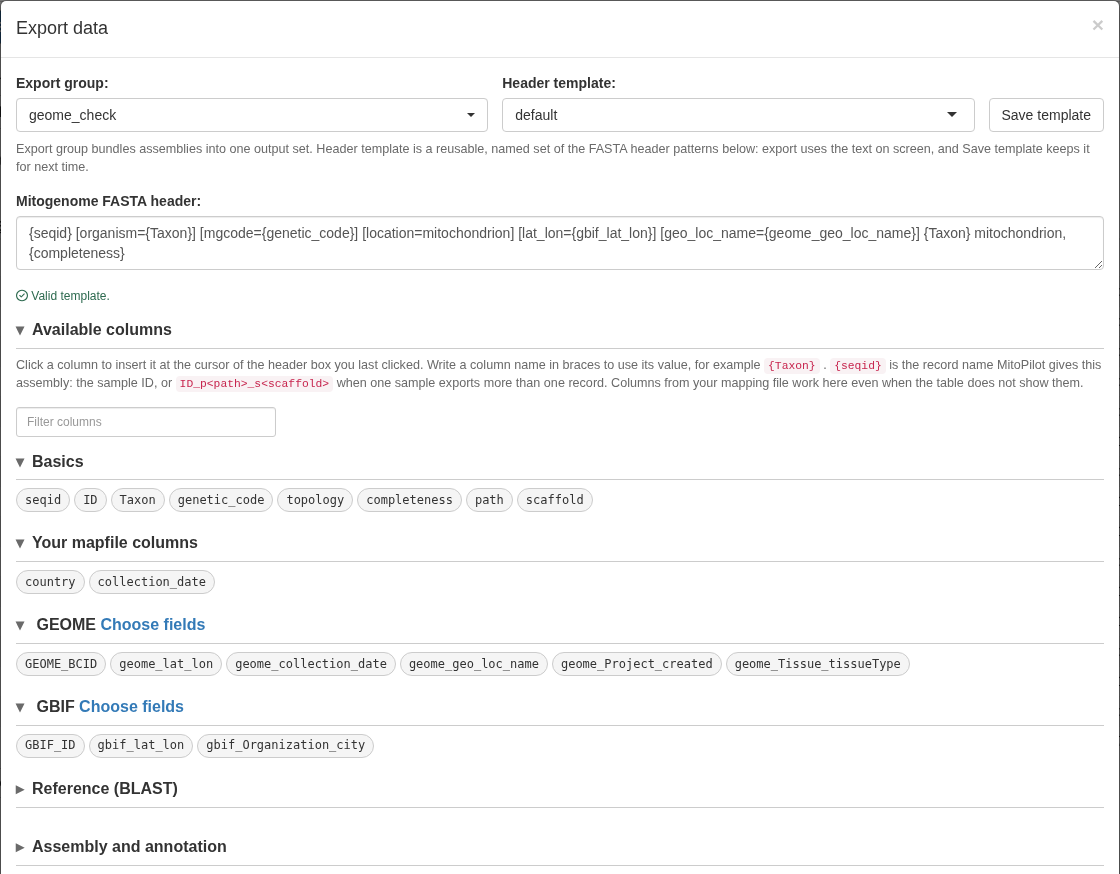
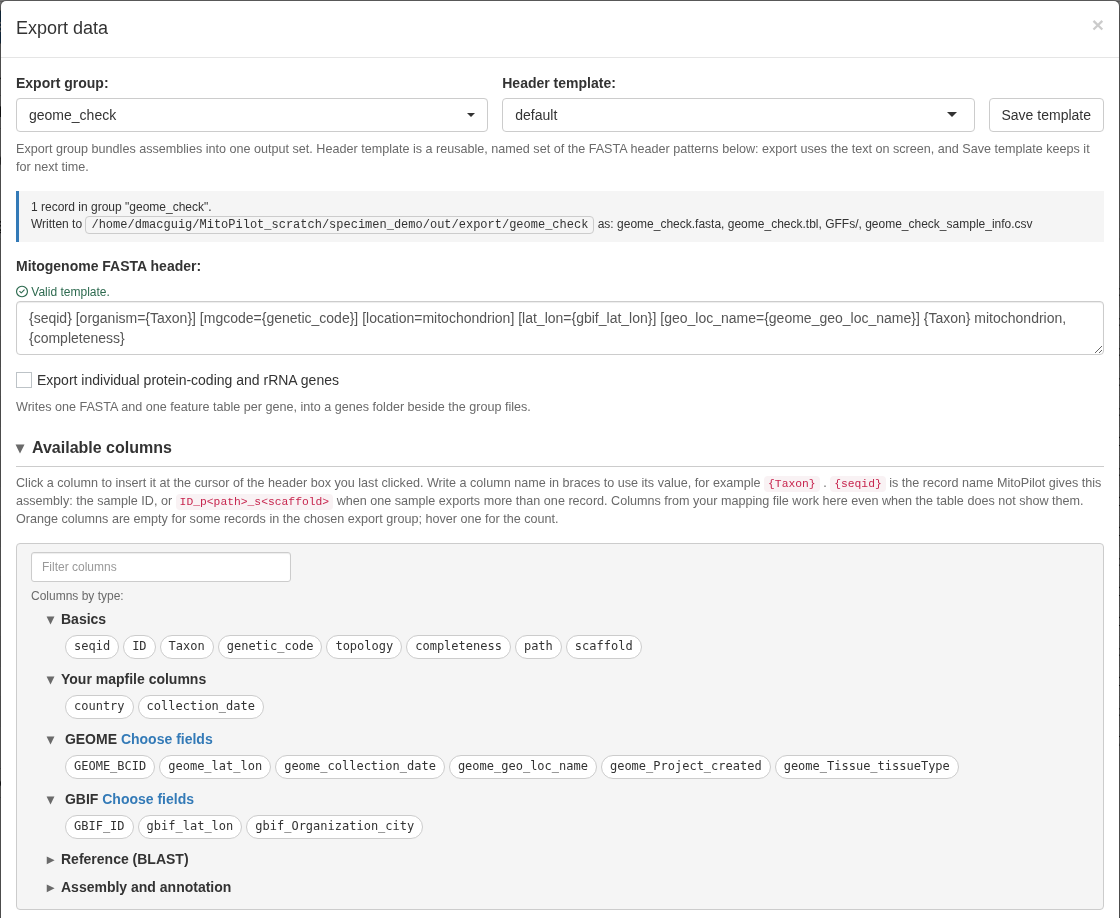
Export Data: grouped column box, missing-data flags, return from Choose fields
Available columns collapsed and boxed by type; orange chips for columns empty in the chosen group; summary and validity checks moved up; Choose fields reopens Export Data unchanged. Rename toolbar button to Set Export Metadata; NEWS draft; refreshed Export Data screenshots.

Changed region(s): [[0.0, 0.0, 0.9688, 0.9886]]

diff --git a/inst/app/www/custom.css b/inst/app/www/custom.css
@@ -967,14 +967,26 @@ a.mp-link:focus-visible {
 .mp-meta-citation { margin: 4px 0 6px; font-size: var(--mp-fs-meta); }
 
 /* Export Data token chips */
-.mp-token-list { margin: 6px 0; }
+/* The column types sit in one bordered box inside Available columns, each type
+   indented with its chips indented again beneath it. */
+.mp-token-list {
+  margin: 8px 0; padding: 8px 14px 6px; border: 1px solid var(--mp-border);
+  border-radius: var(--mp-radius, 4px); background: var(--mp-surface-alt);
+}
 .mp-token-filter { max-width: 260px; margin-bottom: 6px; }
-.mp-token-group > summary { cursor: pointer; font-weight: 600; }
+.mp-token-lead { margin: 4px 0 2px; font-size: var(--mp-fs-meta); color: var(--mp-text-muted); }
+.mp-token-group { margin: 0 0 2px 16px; }
+.mp-token-group > summary {
+  font-size: var(--mp-fs-body); font-weight: 600; border-bottom: none;
+  padding: 2px 0; margin: 2px 0;
+}
+.mp-token-group .mp-token-chips, .mp-token-group .mp-token-hint { margin-left: 18px; }
+.mp-token-chip.mp-token-missing { background: var(--mp-warning-soft); border-color: var(--mp-warning); }
 .mp-token-hint { margin: 2px 0 4px; font-size: var(--mp-fs-meta); }
 .mp-token-chips { display: flex; flex-wrap: wrap; gap: 4px; margin: 4px 0 8px; }
 .mp-token-chip {
   height: var(--mp-chip-h); padding: 0 8px; border: 1px solid var(--mp-border);
-  border-radius: 12px; background: var(--mp-surface-alt); font-family: monospace;
+  border-radius: 12px; background: var(--mp-surface); font-family: monospace;
   font-size: var(--mp-fs-meta); cursor: pointer;
 }
 .mp-token-chip:hover, .mp-token-chip:focus { border-color: var(--mp-primary); }

diff --git a/inst/app/www/custom.js b/inst/app/www/custom.js
@@ -220,6 +220,25 @@ $(document).on('click', '.mp-token-chip', function(e) {
   box.focus();
   $(box).trigger('input').trigger('change');
 });
+// Chips whose column is empty for some records of the chosen export group turn
+// warning-orange, with the count in the tooltip.
+function mpTokenFlags(modal) {
+  var list = modal.find('.mp-token-list');
+  if (!list.length) return;
+  var group = modal.find('select[id$="export_group"]').val();
+  var totals = JSON.parse(list.attr('data-totals') || '{}');
+  var n = totals[group] || 0;
+  list.find('.mp-token-chip').each(function() {
+    var m = JSON.parse(this.getAttribute('data-missing') || '{}')[group] || 0;
+    var base = this.getAttribute('data-title') || '';
+    $(this).toggleClass('mp-token-missing', m > 0);
+    this.title = m > 0 ? base + '\nMissing for ' + m + ' of ' + n + ' records in this group' : base;
+  });
+}
+$(document).on('change', 'select[id$="export_group"]', function() {
+  mpTokenFlags($(this).closest('.modal'));
+});
+$(document).on('shown.bs.modal', function(e) { mpTokenFlags($(e.target)); });
 $(document).on('input', '.mp-token-filter', function() {
   var q = this.value.toLowerCase();
   var list = $(this).closest('.mp-token-list');

diff --git a/NEWS.md b/NEWS.md
@@ -2,10 +2,24 @@
 
 ## New Features
 
-- Specimen metadata from GEOME and GBIF: link samples to GEOME BCIDs and GBIF occurrences (`mapping_geome`, `mapping_gbif`, `fetch_geome()`, `fetch_gbif()`), browse the records in the app, and choose fields, including GenBank-ready `lat_lon`, `collection_date`, `geo_loc_name`, and `specimen_voucher`, for export header templates. MitoPilot compares your mapping file, GEOME, and GBIF and flags disagreements (Compare tab, Specimen column, and a warning at export) without ever merging values; `set_metadata_columns()` picks which mapping-file columns are compared. The Export Data window now lists usable columns as grouped chips that insert at the cursor.
+### Sample metadata from GEOME and GBIF
+
+- **Link samples to GEOME and GBIF records.** Add a column of GEOME BCIDs or GBIF occurrence IDs to the mapping file and name it with `mapping_geome` or `mapping_gbif` in `new_project()`, `new_project_userAsmb()`, `add_samples()`, or `update_sample_metadata()`. Records are fetched at setup, or later with `fetch_geome()` and `fetch_gbif()`. Smithsonian NMNH records can be linked by their EZID (an `ark:/65665/...` identifier or a `collections.nmnh.si.edu` link) in place of a gbifID. See the new article [Sample metadata: GEOME and GBIF](https://smithsonian.github.io/MitoPilot/articles/Specimen-Metadata.html).
+- **Metadata column.** The Assemble, Annotate, and Export tables have a Metadata column with a GEOME or GBIF logo per linked source and a flag when sources disagree. Click it to open the sample metadata viewer: GEOME and GBIF tabs to view, add, or refresh records, and a Compare tab that checks your mapping file, GEOME, and GBIF against each other (coordinates, dates, country, voucher, taxon, and more). MitoPilot flags disagreements but never merges values. `set_metadata_columns()` or **Mapfile columns...** in the Compare tab picks which mapping-file columns are compared.
+- **Show any metadata field as a table column.** A new **Metadata** button next to each table's Columns picker lists every field with data: your extra mapping-file columns, then GEOME and GBIF fields, searchable and with sample counts and examples. Ticked fields appear as columns in all three tables, with source logos in their headers, resizable widths, and an optional three-line text wrap. Mapping-file fields are shown by default; GEOME and GBIF fields are off. The choice is saved in the project, and the Metadata entry in the Columns picker hides them all at once.
+- **Metadata in exported files.** **Set Export Metadata** in the Export toolbar picks which GEOME and GBIF fields can be used in header templates, including GenBank-ready `lat_lon`, `collection_date`, `geo_loc_name`, and `specimen_voucher`. Export warns when a template uses an item the sources disagree on.
+- **Export Data window.** Usable columns are listed under **Available columns** (collapsed by default), grouped by type in one box (Basics, Your mapfile columns, GEOME, GBIF, Reference, Assembly and annotation), and insert at the cursor. A column turns orange when it is empty for some records in the chosen export group; hover it for the count. The summary of what will be written now sits at the top, the gene export options sit next to the headers, and each header's validity check sits just above its box. **Choose fields** returns to Export Data with everything as you left it.
+
+### Tables
+
+- **# Paths and # Scaffolds report ignored contigs**, for example "1 (2 ignored)", and sort on the kept count. Counts are read from the assembled contigs, so they no longer go stale. A joined scaffold assembly counts its fragments as ignored scaffolds; a multi-path consensus counts its source paths as ignored paths.
+- **All BLAST Hits** sits next to Top BLAST Hit and belongs to the BLAST column group. The All BLAST Hits, Output, and Details buttons are icons only, with tooltips.
+- The Columns picker groups the time stamp and note columns as **Notes**. In Export, the Exported column stays pinned beside Export Group.
+- Pinned column groups on either side of every table have a soft edge shadow where content scrolls under them.
 
 ## Bug Fixes
 
+- **Ignored contigs stay visible in user-assembly projects.** In the Assemble table, an ignored contig's length disappeared from Raw Length instead of being marked in red as in reads-based projects.
 - **Circular user assemblies no longer gain a base.** In a no-reads user-assembly project, a circular assembly that already started at the start gene came out of annotation one base longer, with base 1 copied onto the end. The stored sequence, its length, and every export carried the extra base. Reads-based projects could hit the same bug when an assembly happened to start exactly at the start gene. Re-run annotation on affected samples to correct them.
 - **The app launches from RStudio Server.** 1.5.6 stopped with `cannot coerce type 'closure' to vector of type 'character'` when `MitoPilot()` was run inside RStudio, which sets its own browser handler.
 
